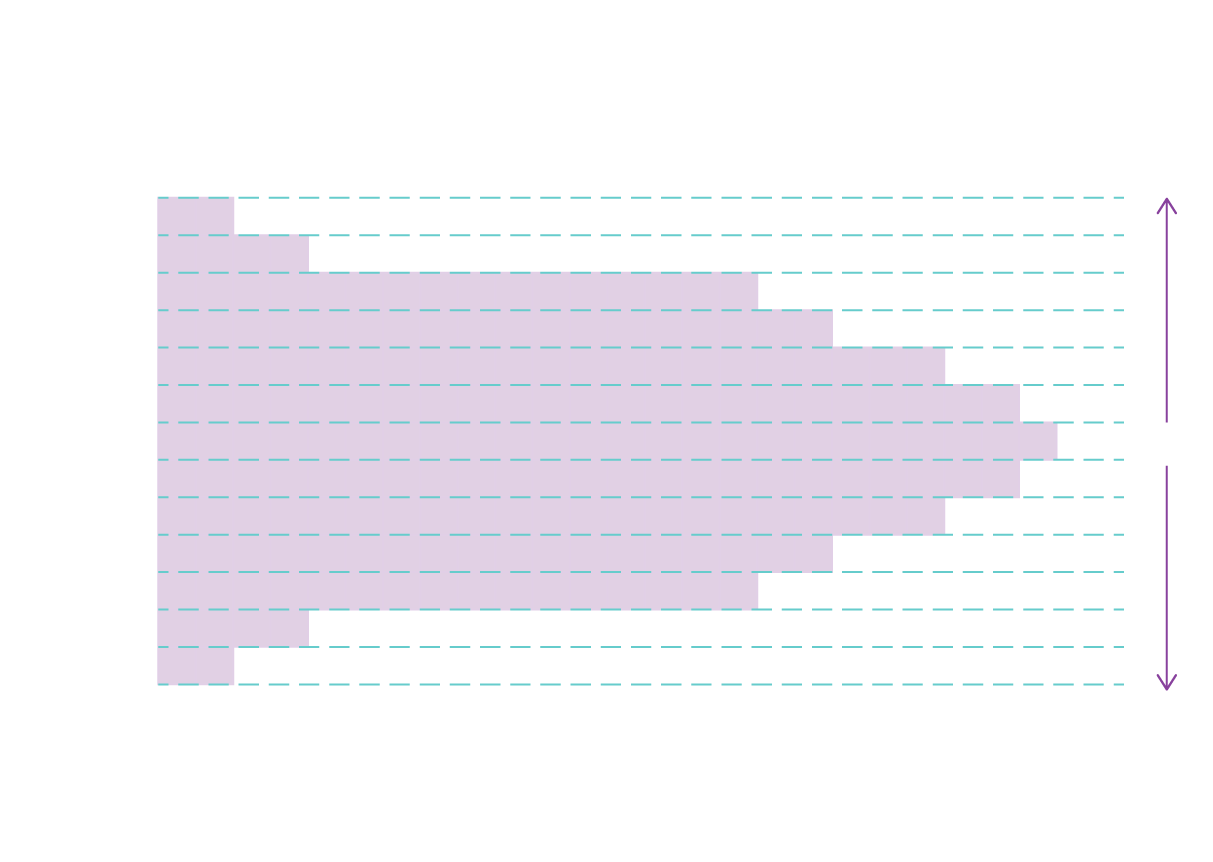
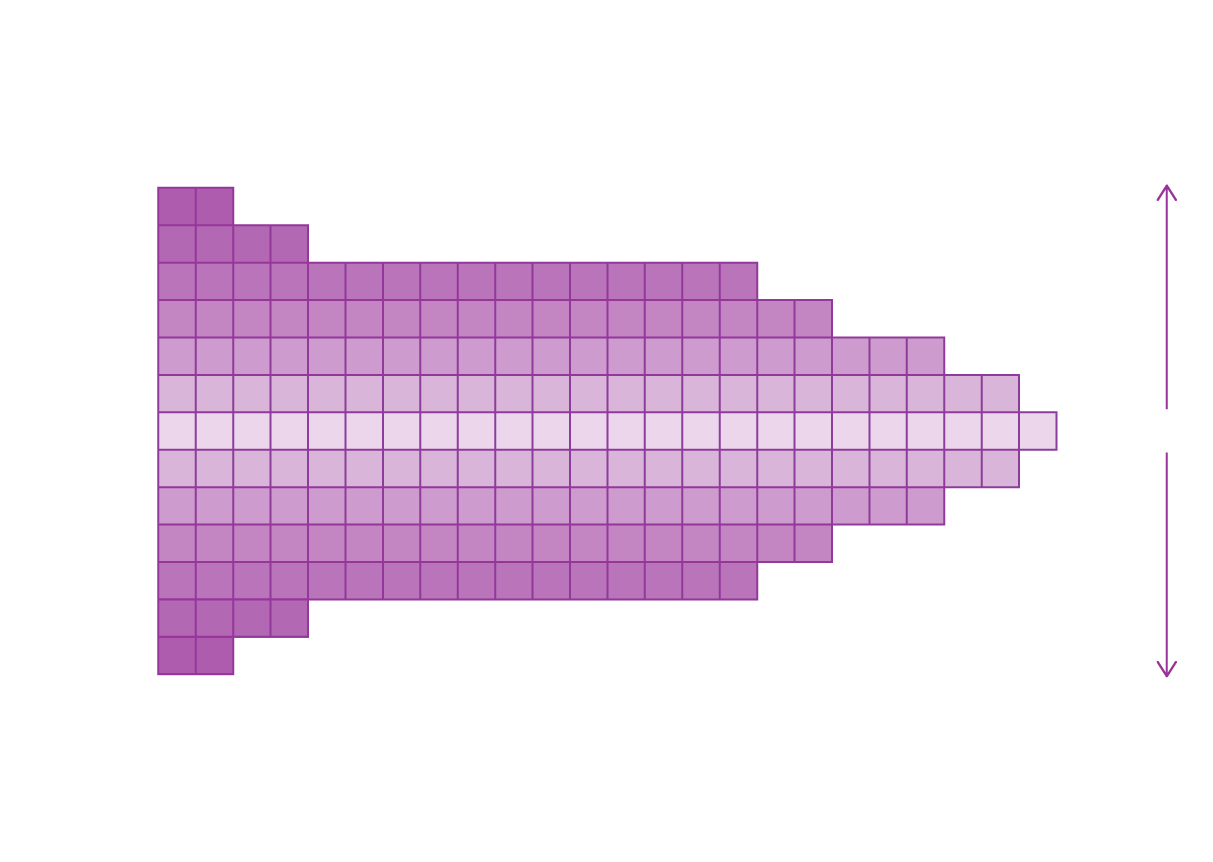
Fixed bugs, changed colors

Changed region(s): [[0.122, 0.2111, 0.8846, 0.8144], [0.9456, 0.7541, 0.9761, 0.8144], [0.9456, 0.2111, 0.9761, 0.2413]]

diff --git a/src/components/Howto.svelte b/src/components/Howto.svelte
@@ -96,7 +96,8 @@
 </script>
 
 <div class="how-to">
-  <!-- <p class="title">How to read what's next</p> -->
+  <div class="border"></div>
+  <p class="title">How to read what's next</p>
   <div class="carousel">
     <button class="toggle" onclick={toggleLeft} onkeydown={toggleLeft}>
       <img class="scroll-icon left" src="/scroll-icon.svg" alt="scroll icon" />
@@ -111,19 +112,19 @@
 
       <div class="explanation">
         {#if !explanation.specialtype}
-          <p class="purple">{explanation.measure}</p>
+          <p class="white">{explanation.measure}</p>
           <p class="blue">{explanation.people}</p>
-          <p class="purple">{explanation.action}</p>
+          <p class="white">{explanation.action}</p>
           <p class="yellow">{explanation.countries}</p>
         {:else if explanation.specialtype === 1}
-          <p class="purple">{explanation.measure}</p>
-          <p class="purple">{explanation.people}</p>
+          <p class="white">{explanation.measure}</p>
+          <p class="white">{explanation.people}</p>
           <p class="white">{explanation.action}</p>
           <p class="white">{explanation.countries}</p>
           <p class="white">{explanation.sp1}</p>
         {:else if explanation.specialtype === 2}
-          <p class="purple">{explanation.measure}</p>
-          <p class="purple">{explanation.people}</p>
+          <p class="white">{explanation.measure}</p>
+          <p class="white">{explanation.people}</p>
           <p class="white">{explanation.action}</p>
           <p class="white">{explanation.countries}</p>
           <p class="white">{explanation.sp1}</p>
@@ -140,13 +141,12 @@
 <style>
   .how-to {
     padding: 3em 0.5em;
-    /* background-color: #3d003b; */
-    background-color: #230523;
+    background-color: #330033;
     color: #f6f3ef;
     width: 100%;
     display: flex;
     flex-direction: column;
-    justify-content: center;
+    justify-content: start;
     align-items: center;
   }
 
@@ -155,20 +155,29 @@
   }
 
   .how-to .content {
-    width: 70vw;
-    height: 60vh;
+    /* width: 80vw; */
     display: flex;
     flex-direction: column;
     align-items: start;
     justify-content: center;
   }
 
+  .how-to .border {
+    margin: 0;
+    padding: 0;
+    height: 25px;
+    background-image: url("/border.svg");
+    background-repeat: repeat-x;
+    background-size: auto 100%;
+    background-color: #330033;
+  }
+
   .how-to .explanation {
-    margin: 0 0 2em 2em;
+    margin: auto 2em;
   }
 
   .how-to .purple {
-    color: #88419d;
+    color: #993399;
   }
   .how-to .white {
     color: #f6f3ef;
@@ -186,7 +195,8 @@
   .how-to .carousel {
     display: flex;
     flex-direction: row;
-    align-items: center;
+    align-items: start;
+    min-height: 450px;
   }
 
   .how-to .carousel .image {
@@ -217,6 +227,7 @@
     text-align: right;
     cursor: pointer;
     font-style: normal;
+    margin: auto 0;
   }
   .how-to .toggle:hover {
     opacity: 0.5;
@@ -224,14 +235,9 @@
   @media screen and (min-width: 800px) {
     .how-to .content {
       flex-direction: row;
-      align-items: center;
-      justify-content: center;
-      width: 80vw;
-      height: 60vh;
-    }
-    .how-to .explanation {
-      margin: 0;
-      margin-left: 2em;
+      /* min-width: 500px; */
+      justify-content: start;
+      margin: 0 auto;
     }
     .how-to .scroll-icon.right {
       margin-right: 0.7em;

diff --git a/src/routes/+page.svelte b/src/routes/+page.svelte
@@ -5,6 +5,7 @@
   import Scrolly from "../components/Scrolly.svelte";
   import Howto from "../components/Howto.svelte";
   import Photo from "../components/Photo.svelte";
+  import Highlight from "../components/Highlight.svelte";
 
   let { data } = $props();
   let selectedCountry = $state("");
@@ -73,9 +74,9 @@
       <div class="step-container">
         <Cover
           content={{
-            title: "Patrones, Padrões, Patterns",
+            title: "Weaving Migration",
             intro:
-              "The beauty of migratory flows within Latin America and the Caribbean",
+              "Exploring the beauty of migratory flows within Latin America and the Caribbean",
             author: "by Mariana Villamizar, Jan 2024",
           }}
           {started}
@@ -84,11 +85,9 @@
       </div>
     </div>
   </section>
-  <section id="highlight">
-    <div class="banner">
-      {"This project is a tribute to the beauty of these weavings, to Latin America and the Caribbean, to migration."}
-    </div>
-  </section>
+  <Highlight
+    content={"This project is a tribute to the beauty of these weavings, to Latin America and the Caribbean, to migration."}
+  />
   <section id="how-to"><Howto /></section>
   <section id="gallery"><Gallery {data} bind:selectedCountry /></section>
   <section id="footer">
@@ -108,20 +107,6 @@
     -webkit-box-orient: vertical;
     -webkit-box-direction: normal;
     flex-direction: column;
-  }
-
-  #highlight .banner {
-    font-size: 2em;
-    font-weight: bold;
-  }
-
-  .banner {
-    padding: 3em 2em;
-    background-color: #3d003b;
-    width: 100vw;
-    pointer-events: none;
-    filter: drop-shadow(0 0 5px #47004577);
-    color: #de644c;
   }
 
   .background {
@@ -146,13 +131,13 @@
     pointer-events: none;
     /* width: 100%; */
     margin-top: -100vh;
-    margin-left: 0;
   }
 
   .step-container {
     position: relative;
     z-index: 99;
     pointer-events: none;
+    padding: 5em 0 11em 0;
   }
 
   .visual {
@@ -191,10 +176,6 @@
   }
 
   @media screen and (min-width: 800px) {
-    .foreground {
-      margin-left: 2em;
-    }
-
     .background {
       width: 100%;
       height: 100svh;

diff --git a/src/components/Cover.svelte b/src/components/Cover.svelte
@@ -26,16 +26,17 @@
     flex-direction: row;
     align-content: center;
     height: 25vh;
-    background-color: #f5f3ef;
+    background-color: #f85230;
+    justify-content: start;
   }
   .cover .border {
     margin: 0;
     padding: 0;
     height: 25px;
-    background-image: url("/border.svg");
+    background-image: url("/border-purple.svg");
     background-repeat: repeat-x;
     background-size: auto 100%;
-    background-color: #3d003b;
+    background-color: #330033;
   }
 
   .cover .purple {
@@ -48,9 +49,9 @@
     text-align: left;
   }
   .cover {
-    margin: 35vh auto;
-    background-color: #3d003b;
-    width: 100vw;
+    margin: 35vh 0 0 0;
+    background-color: #330033;
+    width: 100%;
     height: auto;
     pointer-events: none;
     filter: drop-shadow(0 0 5px #47004577);
@@ -73,13 +74,10 @@
     max-width: 350px;
   }
   .cover .author {
-    color: #88419d;
+    color: #993399;
     font-size: 1rem;
   }
   @media screen and (min-width: 800px) {
-    .cover {
-      margin: 35vh 0 0 -2em;
-    }
     .cover .cover-container {
       padding: 3em 3em 3em 5em;
     }

diff --git a/src/components/Highlight.svelte b/src/components/Highlight.svelte
@@ -1,0 +1,40 @@
+<script>
+  import "../routes/styles.css";
+  let { content } = $props();
+</script>
+
+<section id="highlight">
+  <div class="border"></div>
+  <div class="banner">
+    {"This project is a tribute to the beauty of these weavings, to diversity, to Latin America and the Caribbean, to migration."}
+  </div>
+  <div class="border"></div>
+</section>
+
+<style>
+  #highlight {
+    background-color: #ff6633;
+
+    filter: drop-shadow(0 0 5px #47004577);
+    width: 100%;
+  }
+  #highlight .banner {
+    font-size: 2em;
+    max-width: 650px;
+  }
+
+  .banner {
+    padding: 3em 2em;
+    pointer-events: none;
+    color: #3d003b;
+  }
+
+  #highlight .border {
+    margin: 0;
+    padding: 0;
+    height: 25px;
+    background-image: url("/border-purple.svg");
+    background-repeat: repeat-x;
+    background-size: auto 100%;
+  }
+</style>

diff --git a/src/components/Step.svelte b/src/components/Step.svelte
@@ -17,7 +17,7 @@
     max-width: 550px;
     width: auto;
     height: auto;
-    padding: 2em 3em;
+    padding: 3em;
     pointer-events: none;
     text-align: left;
     background-color: #f5f3ef;
@@ -25,13 +25,14 @@
     filter: drop-shadow(0 0 5px #47004577);
   }
   .step .subtitle {
-    color: #de644c;
+    color: #ff6633;
     font-weight: bold;
     font-size: 1.25em;
   }
   .step .body {
-    color: #3d003b;
+    color: #330033;
     font-size: 1em;
+    line-height: 1.7em;
   }
   .step p {
     padding: 0;
@@ -41,9 +42,9 @@
   }
   @media screen and (min-width: 800px) {
     .step {
-      margin: 40vh 0;
-      width: 500px;
-      padding: 2em 4em;
+      margin: 40vh 0 0 2em;
+      width: 600px;
+      padding: 4em;
     }
 
     .visual .left {

diff --git a/src/components/IconScroll.svelte b/src/components/IconScroll.svelte
@@ -13,10 +13,11 @@
     bottom: 30px; */
     width: 100%;
     display: flex;
-    justify-content: center;
+    justify-content: start;
     align-items: center;
     flex-direction: column;
     z-index: 100;
+    padding-top: 2em;
   }
 
   .scroll-icon.inactive {
@@ -65,8 +66,6 @@
   }
   @media screen and (min-width: 800px) {
     .scroll-icon {
-      display: flex;
-      justify-content: center;
       z-index: 100;
     }
     .bounce {

diff --git a/src/components/Gallery.svelte b/src/components/Gallery.svelte
@@ -271,7 +271,7 @@
     text-decoration: none !important;
   }
   a p.name {
-    color: #3d003b;
+    color: #330033;
     margin-bottom: 10px;
   }
   @media screen and (min-width: 917px) {
